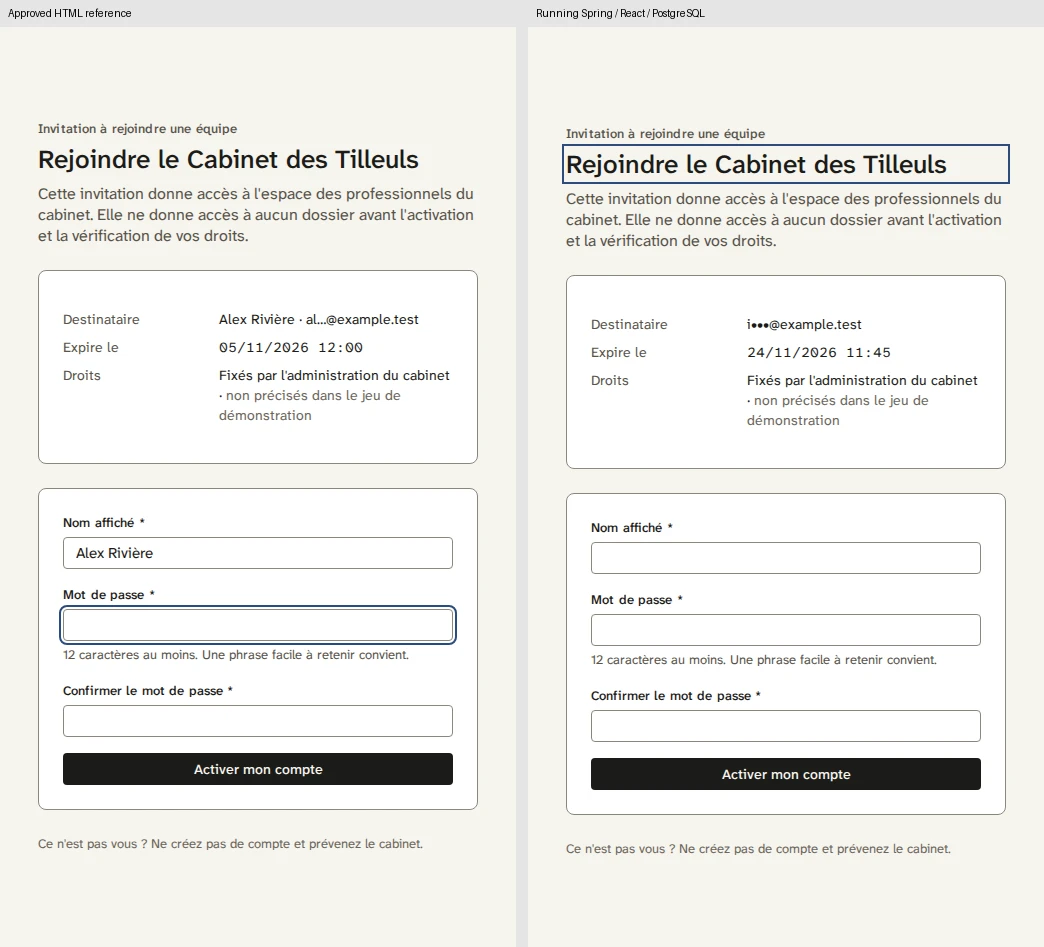
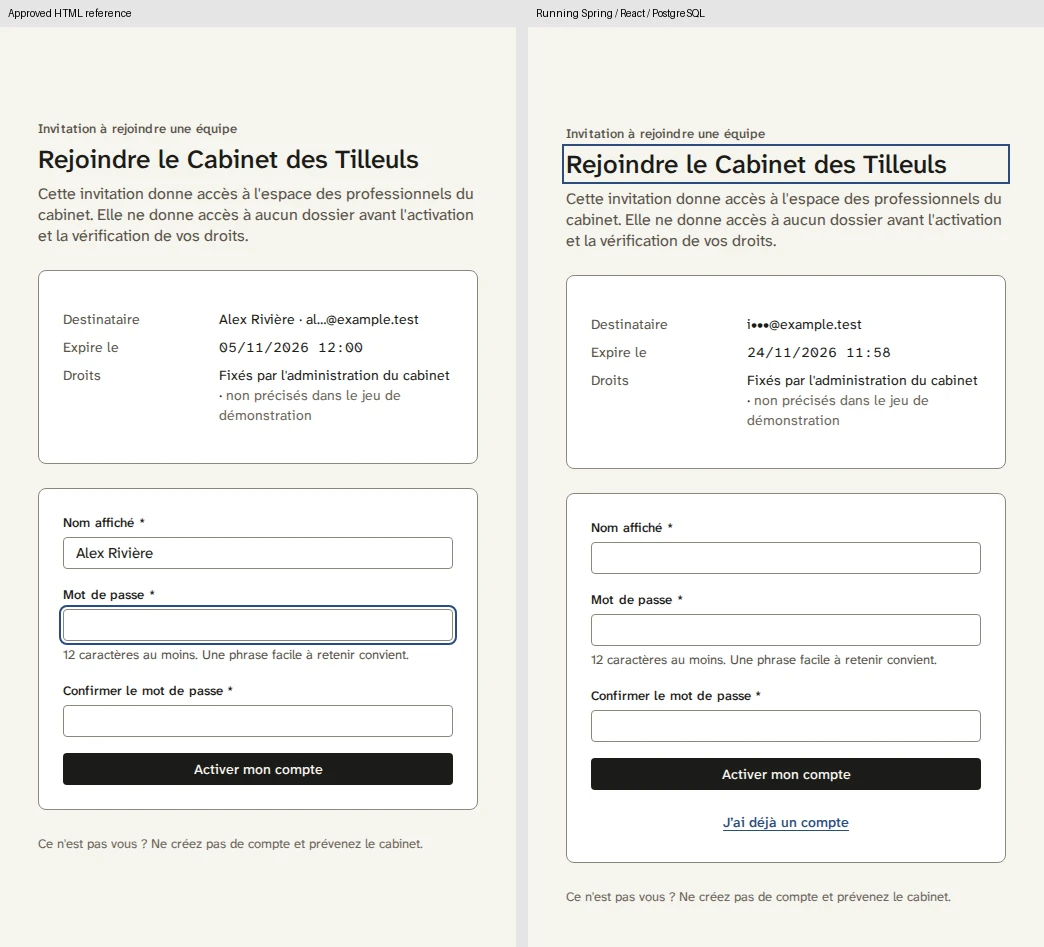
docs(access): update evidence after invitation review fixes

Changed region(s): [[0.5517, 0.8574, 0.9195, 0.9493], [0.8276, 0.3675, 0.8582, 0.3981]]

diff --git a/docs/implementation-artifacts/story-1-1-implementation-record.md b/docs/implementation-artifacts/story-1-1-implementation-record.md
@@ -5,7 +5,7 @@ On 2026-11-21, UD-50 authorized team and patient invitation activation. Aymen ap
 ## Runtime behavior
 
 - `/invitation#<token>` inspects the token in a POST body with CSRF and request admission. The browser removes the fragment from history and retains the token in component memory during activation or sign-in. The preview exposes the masked recipient hint, the practice name and invitation timing.
-- V3 forces practice RLS on invitations. Restricted identity functions take an exact digest, derive practice context, and grant one membership or one record-specific portal link, consume the invitation and append one practice audit event in a single database operation. Patient birth-date verification precedes writes. Existing grants and account suspension are checked during acceptance. V1 and V2 remain the migration history for existing installations.
+- V3 forces practice RLS on invitations. Restricted identity functions take an exact digest, derive practice context, and grant one membership or one record-specific portal link, consume the invitation and append one practice audit event in a single database operation. Patient birth-date verification precedes writes. The transaction checks practice and account state, preserves existing grants and rechecks invitation expiry after acquiring the activation locks. V1 and V2 remain the migration history for existing installations.
 - The winning key replays the same outcome under the original identity conditions. A changed body conflicts. Anonymous replay is bounded by invitation expiry and credential revision. Account access and grants are re-resolved before the session cookie and CSRF value rotate.
 - The team destination is `/compte`. Patient acceptance returns its exact current portal-link ID, which the browser checks against the active grant list before opening `/compte/patient/{id}`. Practice selection and the full patient home are delivered in their own stories. [Contract](../contracts/README.md)
 
@@ -13,14 +13,24 @@ On 2026-11-21, UD-50 authorized team and patient invitation activation. Aymen ap
 
 | Check | Observed result |
 |---|---|
-| API, Java 25 and PostgreSQL 18 | `./mvnw -B -ntp verify` and the Surefire report gate passed with 157 tests, zero skips, including all 7 invitation HTTP cases. C1–C8 cover exact grants, safe refusals, suspension, concurrency, signed-in and anonymous replays, credential revision, role privileges, transaction context, CSRF and admission bounds. |
+| API, Java 25 and PostgreSQL 18 | `./mvnw -B -ntp verify` and the Surefire report gate passed with 159 tests, zero skips, including all 9 invitation HTTP cases. C1–C8 cover exact grants, safe refusals, practice and account suspension, expiry while waiting on a row lock, concurrency, signed-in and anonymous replays, credential revision, role privileges, transaction context, CSRF and admission bounds. |
 | V2 upgrade | A disposable PostgreSQL 18.7 database migrated to V2, received a synthetic marker account, migrated to V3, and retained that account. Testcontainers also applied V1 through V3 on a fresh database. |
 | Mutation checks | C6 failed when the accepted-token guard was removed and its expected replay became a refusal. C7 failed when the digest predicate was removed and the preview selected the wrong practice. Each check produced one assertion failure in a disposable checkout. |
-| Web, Node 26 | `tsc -b`, the production build and SDK drift checks passed. The Chromium smoke gate passed all 30 tests, including 11 invitation tests. The ten approved states have functional assertions and axe scans. Keyboard focus, generic refusal, throttling, retry and existing-recipient sign-in were exercised. |
+| Web, Node 26 | `tsc -b`, the production build and SDK drift checks passed. The Chromium smoke gate passed all 33 tests, including 14 invitation tests. The ten approved states have functional assertions and axe scans. Keyboard focus, generic refusal, an existing recipient’s direct sign-in, expired-session recovery and the pending, retry and throttled states were exercised. |
 | Real Spring/React/PostgreSQL | All three invitation browser tests passed. A team member activated and signed back in, a patient corrected a rejected birth date and activated the exact portal link, and expired, revoked and unknown tokens reached their recovery states. |
 | Visual evidence | The real stack and matching HTML reference produced 200 captures for ten states, five widths and two themes. The run asserted no horizontal overflow at those widths. The opened comparisons document the sampled results. [Visual review](../design/reviews/2026-11-21-story-1-1-rendered.md) |
 
-Candidate `5ec9e4a483785301f9742c2c4026e35e9e7d43a9` incorporates the approved contract and the exact portal destination. The local review and remote checks are tracked in the continuation note and pull request.
+## Delivery review
+
+The read-only Codex CLI reviewed candidate `5ec9e4a483785301f9742c2c4026e35e9e7d43a9` against `447fe579af1fdc43b5a4e16a0e0565be82c350d0`. The implementation follow-up `54921b1fd2696cf010b56c326316257e9040e8e9` closes its seven findings. The final application candidate `528cfa402d429e7c213e7375fe3f6ef7f8bd9de3` also refreshes the preview when the same link is opened again in the current tab. Chromium and the isolated running UI verified that refresh.
+
+| Review lens | Disposition and regression evidence |
+|---|---|
+| Silent failures | A suspended practice prevents consumption, account creation and audit. The PostgreSQL HTTP test verifies the preview and acceptance refusal. |
+| Edge cases | Acceptance rechecks time after the record and recipient locks. The lock-expiry test verifies that the invitation and grants remain intact. The web restores account-creation fields when the prior session ends, offers direct sign-in and sends conflicting portal links to practice contact. |
+| Acceptance criteria | Invitation idempotency accepts the OpenAPI header length range. HTTP tests exercise a key with punctuation. Chromium verifies loading, pending submission, throttling, retry, restrictions and focus with axe. |
+
+The final review and integration status are tracked in the [continuation note](../continuation.md) and [PR #49](https://github.com/Aymenchaghoub/etaye/pull/49).
 
 ## Reproduce the browser journeys
 

diff --git a/docs/design/reviews/2026-11-21-story-1-1-rendered.md b/docs/design/reviews/2026-11-21-story-1-1-rendered.md
@@ -1,6 +1,6 @@
 # Story 1.1 running UI comparison
 
[2 lines of base64/hex data omitted]
 
 | State | Desktop or tablet | Mobile |
 |---|---|---|
@@ -11,6 +11,6 @@ On 2026-11-21 the isolated Spring, React and PostgreSQL stack rendered the six a
 | I-03 verification refusal | [1440 dark](2026-11-21-story-1-1-rendered/I-03-erreur-1440-sombre.webp) | [390 light](2026-11-21-story-1-1-rendered/I-03-erreur-390-clair.webp) |
 | I-03 expired | [1024 dark](2026-11-21-story-1-1-rendered/I-03-expiree-1024-sombre.webp) | |
 
-The pairs show the HTML reference on the left and the running application on the right. Desktop and tablet images retain the main column at native scale. The first comparison led to matching the invitation detail grid spacing, date typography and placement of the confirmation summary. The running screen uses live dates, a masked recipient address, empty sensitive fields and heading focus when a new screen opens. Dynamic copy and the reference-only sample labels account for different line wrapping and footer positions. Patient contact explains how to reach the practice through its existing coordinates or invitation message.
+The pairs show the HTML reference on the left and the running application on the right. Desktop and tablet images retain the main column at native scale. The first comparison led to matching the invitation detail grid spacing, date typography and placement of the confirmation summary. The running screen uses live dates, a masked recipient address, empty sensitive fields and heading focus when a new screen opens. Dynamic copy and the reference-only sample labels account for different line wrapping and footer positions. Patient contact explains how to reach the practice through its existing coordinates or invitation message. The running form also offers existing recipients a direct sign-in action. The supplemental mobile capture shows the suspended-practice recovery control with keyboard focus. [Suspended practice](2026-11-21-story-1-1-rendered/S-03-suspendue-390-sombre.webp)
 
-The automated axe and keyboard checks are reported separately in the [implementation record](../../implementation-artifacts/story-1-1-implementation-record.md). Manual screen-reader, forced-colors and browser-zoom review remain open. The Figma connection returned `UNAUTHORIZED / TRIGGER_REAUTHENTICATION` for this session. The approved HTML exception covers the comparison and native reconciliation is pending. [Design approval](2026-11-21-story-1-1-review.md)
+The automated axe and keyboard checks are reported separately in the [implementation record](../../implementation-artifacts/story-1-1-implementation-record.md). A separate Chromium run measured the long-practice heading and keyboard focus at 320 CSS px in both themes. The minimum measured ratios were 14.64 for headings, 3.58 for control borders, 7.27 for focus and 14.23 for the primary button text. The primary action remained reachable with forced colors and at 200% CSS zoom in Chromium. Manual assistive-technology and browser-zoom review remain open. The Figma connection returned `UNAUTHORIZED / TRIGGER_REAUTHENTICATION` for this session. The approved HTML exception covers the comparison and native reconciliation is pending. [Design approval](2026-11-21-story-1-1-review.md)

diff --git a/docs/continuation.md b/docs/continuation.md
@@ -4,11 +4,11 @@ Updated: 2026-11-21. Owner: Aymen Chaghoub.
 
 ## Story 1.1 implementation and delivery review — 2026-11-21
 
-**Phase.** Implementation under UD-50 is on `feat/1.1-activate-invitation`. Application candidate `5ec9e4a483785301f9742c2c4026e35e9e7d43a9` implements the narrowly scoped invitation endpoints, V3 and the S-03/I-03 Web flow. Issuance and email stay deferred under D-23. [Implementation record](implementation-artifacts/story-1-1-implementation-record.md)
+**Phase.** Implementation under UD-50 is on `feat/1.1-activate-invitation`. Application candidate `528cfa402d429e7c213e7375fe3f6ef7f8bd9de3` implements the narrowly scoped invitation endpoints, V3 and the S-03/I-03 Web flow. Issuance and email stay deferred under D-23. [Implementation record](implementation-artifacts/story-1-1-implementation-record.md)
 
-**Actual verification.** Java 25 Maven verify passed 157 tests, including 7 invitation HTTP cases. The isolated PostgreSQL V2-to-V3 migration preserved a synthetic account. Both disposable regression mutations were detected. Node 26 build, SDK drift check and 30 Chromium smoke cases passed. Three real-stack invitation journeys passed. The visual run produced 200 captures and 11 opened pairs. [Running UI comparisons](design/reviews/2026-11-21-story-1-1-rendered.md)
+**Actual verification.** Java 25 Maven verify passed 159 tests, including 9 invitation HTTP cases. The isolated PostgreSQL V2-to-V3 migration preserved a synthetic account. Both disposable regression mutations were detected. Node 26 build, SDK drift check and 33 Chromium smoke cases passed. Three real-stack invitation journeys passed. The visual run produced 200 matched captures and 11 opened pairs. A separate running capture shows the unavailable invitation with keyboard focus. [Running UI comparisons](design/reviews/2026-11-21-story-1-1-rendered.md)
 
-**Access and next action.** Figma returned `UNAUTHORIZED / TRIGGER_REAUTHENTICATION`; the approved HTML exception applies. The local running UI is ready for Aymen’s review. Codex CLI review and GitHub delivery checks are in progress. The merge requires Aymen’s reply on the running UI.
+**Access and next action.** Figma returned `UNAUTHORIZED / TRIGGER_REAUTHENTICATION`. The approved HTML exception applies. The local running UI is ready for Aymen’s review. The seven Codex CLI findings have been addressed and the final GitHub review is tracked on [PR #49](https://github.com/Aymenchaghoub/etaye/pull/49). The merge requires Aymen’s reply on the running UI.
 
 ## Story 1.1 design approved; implementation starting — 2026-11-21
 
